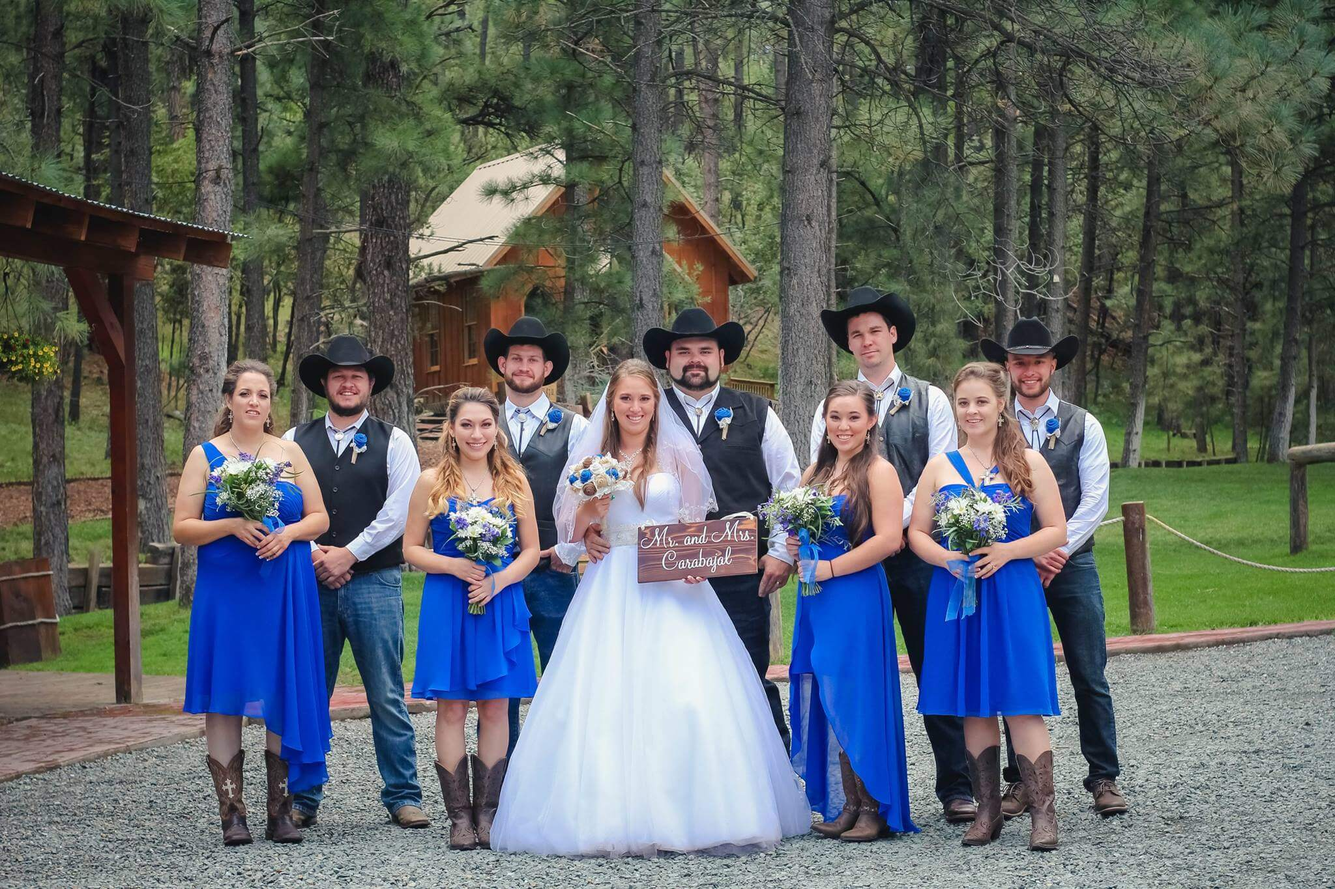
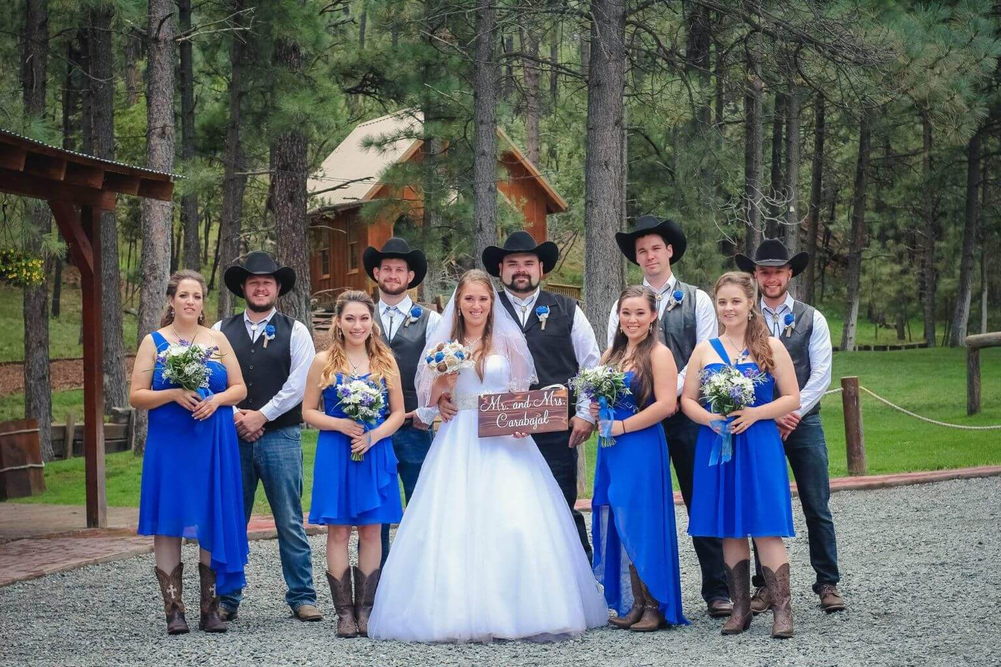
Updated image sizing, added meta description for SEO.

diff --git a/public_html/index.html b/public_html/index.html
@@ -3,6 +3,7 @@
 <head>
     <meta charset="UTF-8">
     <meta name="viewport" content="width=device-width, initial-scale=1, shrink-to-fit=no">
+    <meta name="description" content="Suzy S. Photography - The perfect photographer in Albuquerque for you. Weddings, Pets, Portraits, Photoshop, and more!">
     <title>Suzy S. Photography</title>
     <link rel="apple-touch-icon" sizes="180x180" href="images/apple-touch-icon.png">
     <link rel="icon" type="image/png" sizes="32x32" href="images/favicon-32x32.png">
@@ -171,8 +172,8 @@
 
 <div class="modal fade" id="image-modal" tabindex="-1" role="dialog" aria-hidden="true">
     <div class="modal-dialog modal-dialog-centered">
-        <div class="modal-content rounded-0">
-            <img src="#" alt="Modal Image" class="img-fluid image-preview my-auto" style="width: 100%;">
+        <div class="modal-content">
+            <img src="#" alt="Modal Image" class="img-fluid image-preview my-auto">
         </div>
     </div>
 </div>

diff --git a/public_html/css/styles.css b/public_html/css/styles.css
@@ -52,6 +52,7 @@ h1, h2 {
 
 .modal-dialog {
 	max-width: 65vh;
+	max-height: 90vh;
 }
 
 .g-recaptcha {
@@ -65,4 +66,8 @@ h1, h2 {
 
 .cover {
 	object-fit: cover;
+}
+
+.modal-open {
+	overflow-y: auto;
 }
